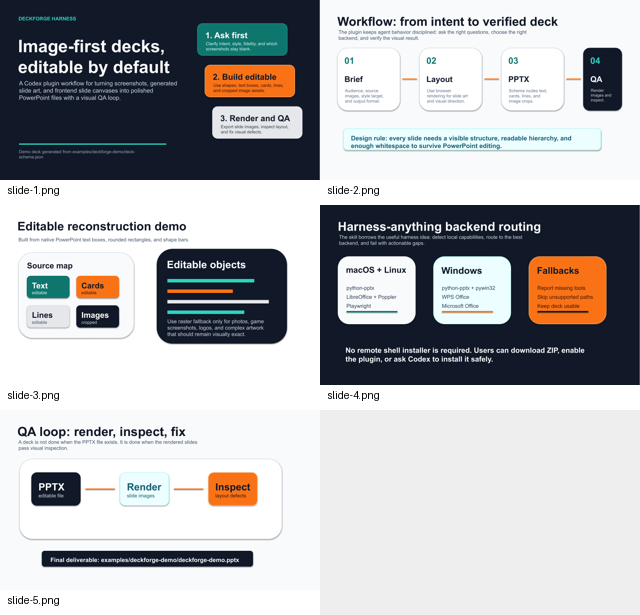
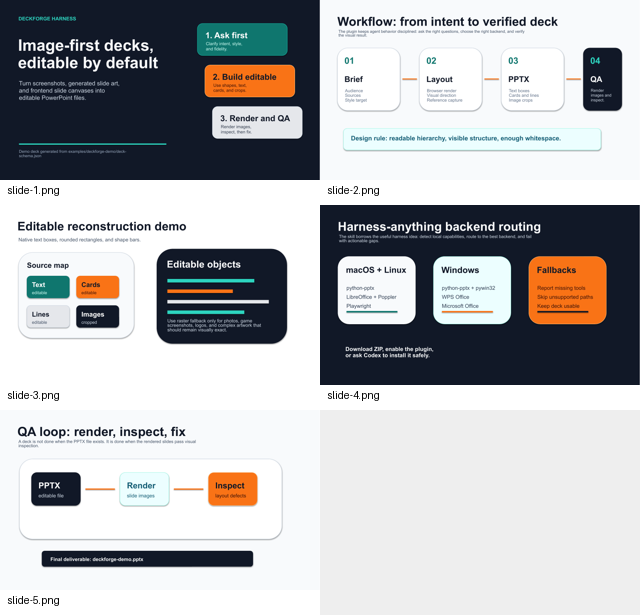
Prevent demo text overflow in PowerPoint
Fix the generated demo after PowerPoint revealed text boxes overflowing despite LibreOffice/contact-sheet QA. The schema now uses shorter, explicit line breaks, and schema text boxes emit PowerPoint wrap and autofit properties. The skill also requires real Office app screenshot inspection when an Office app is available.

Constraint: PowerPoint native rendering can differ from LibreOffice/PDF contact sheets

Rejected: Rely on contact sheet preview only | downscaled renders hid text overflow and did not match the user's PowerPoint view

Confidence: high

Scope-risk: narrow

Directive: For PPTX deliverables, inspect a real target Office app screenshot before claiming visual QA is complete

Tested: python scripts/deckforge.py schema-to-pptx --schema examples/deckforge-demo/deck-schema.json --output examples/deckforge-demo/deckforge-demo.pptx

Tested: python scripts/deckforge.py render-pptx --pptx examples/deckforge-demo/deckforge-demo.pptx --out-dir examples/deckforge-demo/qa

Tested: python scripts/deckforge.py qa --render-dir examples/deckforge-demo/qa --contact-sheet examples/deckforge-demo/qa/contact.png

Tested: Opened regenerated deckforge-demo-powerpoint-check.pptx in Microsoft PowerPoint for macOS and inspected slides 1-5 with computer-use screenshots

Tested: python /Users/jerry/.codex/skills/.system/plugin-creator/scripts/validate_plugin.py /Users/jerry/plugins/deck-forge-harness

Not-tested: Microsoft PowerPoint on Windows

diff --git a/scripts/deckforge.py b/scripts/deckforge.py
@@ -20,6 +20,7 @@ from PIL import Image, ImageDraw, ImageOps, ImageStat
 from pptx import Presentation
 from pptx.dml.color import RGBColor
 from pptx.enum.shapes import MSO_SHAPE
+from pptx.enum.text import MSO_AUTO_SIZE
 from pptx.util import Inches, Pt
 
 
@@ -174,6 +175,9 @@ def add_schema_text(slide, el: dict, sx: float, sy: float) -> None:
     )
     tf = shape.text_frame
     tf.clear()
+    tf.word_wrap = bool(el.get("wrap", True))
+    if bool(el.get("fit", True)):
+        tf.auto_size = MSO_AUTO_SIZE.TEXT_TO_FIT_SHAPE
     tf.margin_left = tf.margin_right = tf.margin_top = tf.margin_bottom = 0
     p = tf.paragraphs[0]
     p.text = str(el.get("text", ""))

diff --git a/examples/deckforge-demo/README.md b/examples/deckforge-demo/README.md
@@ -8,6 +8,8 @@ Files:
 - `deckforge-demo.pptx` - generated editable PowerPoint deck.
 - `qa/contact.png` - rendered contact sheet used for visual QA.
 
+This demo was also opened in Microsoft PowerPoint for macOS and checked with real app screenshots. The PowerPoint check is important because native Office text wrapping can differ from LibreOffice/PDF rendering.
+
 Regenerate the deck:
 
 ```bash

diff --git a/skills/deck-forge/SKILL.md b/skills/deck-forge/SKILL.md
@@ -122,6 +122,7 @@ python3 ~/plugins/deck-forge-harness/scripts/deckforge.py schema-to-pptx \
 - Use PowerPoint/WPS GUI automation only when the user specifically needs behavior that cannot be done through file operations.
 - On Windows, WPS/MS Office COM can be a first-class live Office backend when installed; on macOS, do not promise WPS COM and use LibreOffice only for conversion/render QA.
 - If `frontend-design`, Playwright MCP, or a GUI automation harness is unavailable, state the fallback and keep moving with local HTML/Playwright/LibreOffice where possible.
+- For PowerPoint deliverables, do not rely only on a contact sheet or LibreOffice render. When PowerPoint, WPS, or another target Office app is available, open the generated PPTX and inspect real app screenshots for text overflow, missing wrapping, clipping, and overlap before delivery.
 
 ## Completion Evidence
 
@@ -131,5 +132,6 @@ Final responses should include:
 - locked intake summary or a note that the task was analysis-only;
 - capture/source path when relevant;
 - render/contact-sheet path;
+- real Office app screenshot inspection result when an Office app is available;
 - verification commands run;
 - unavailable tools or fallback choices.